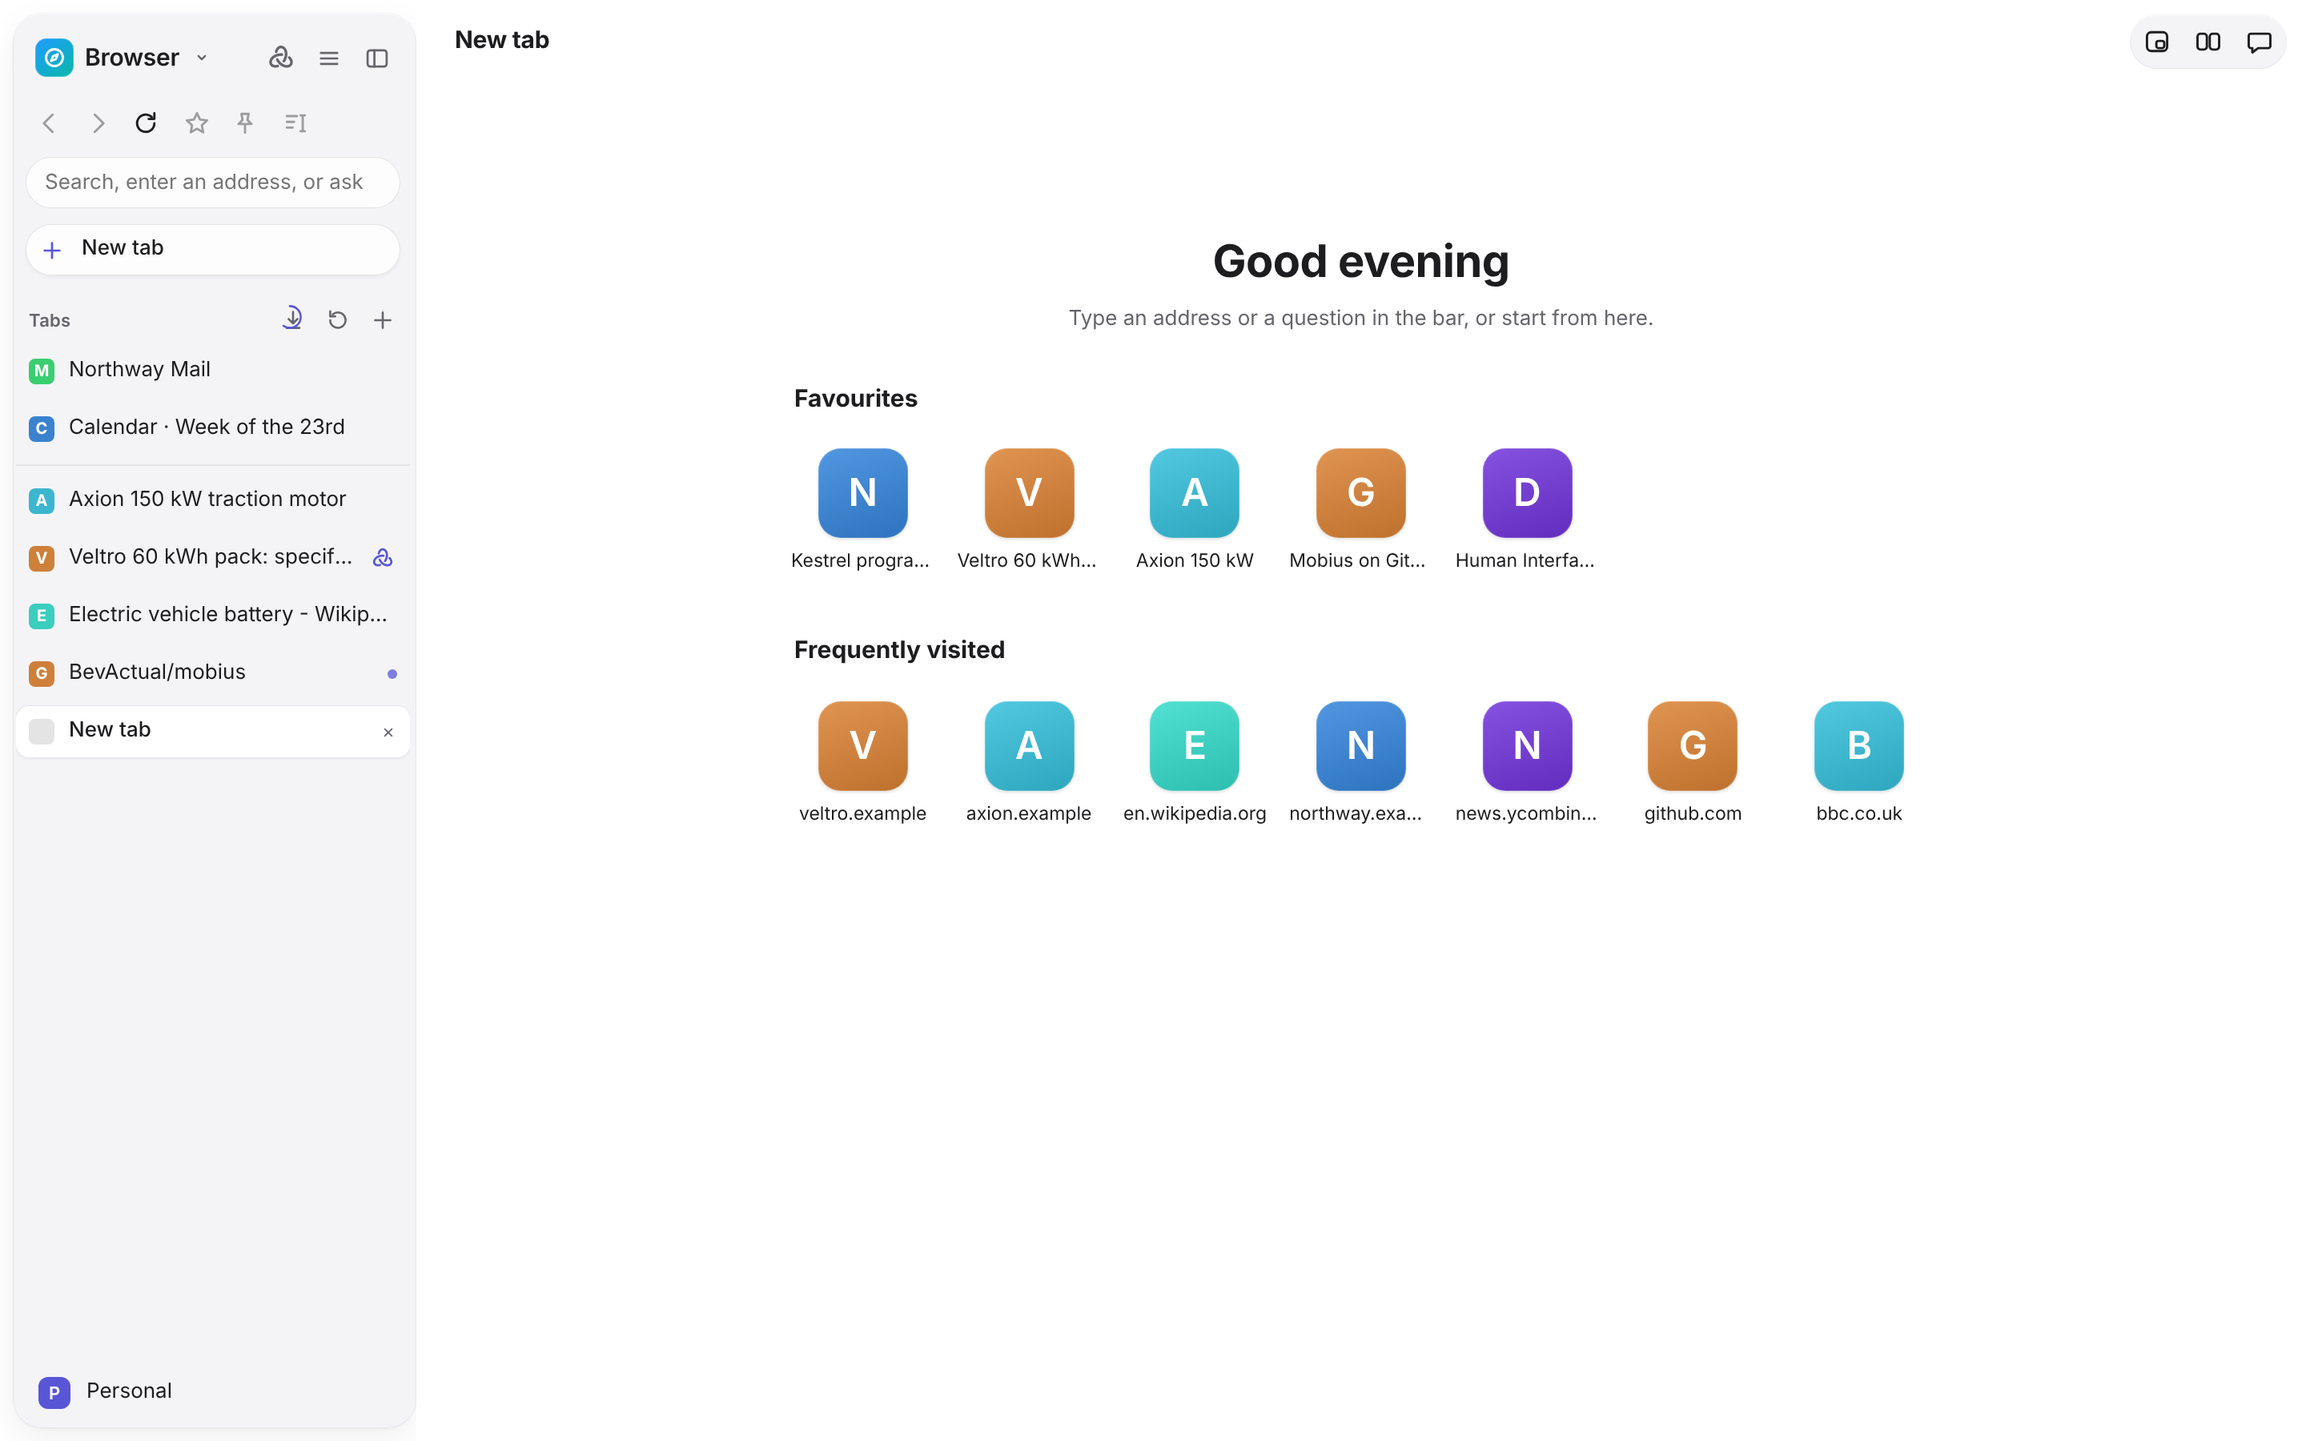
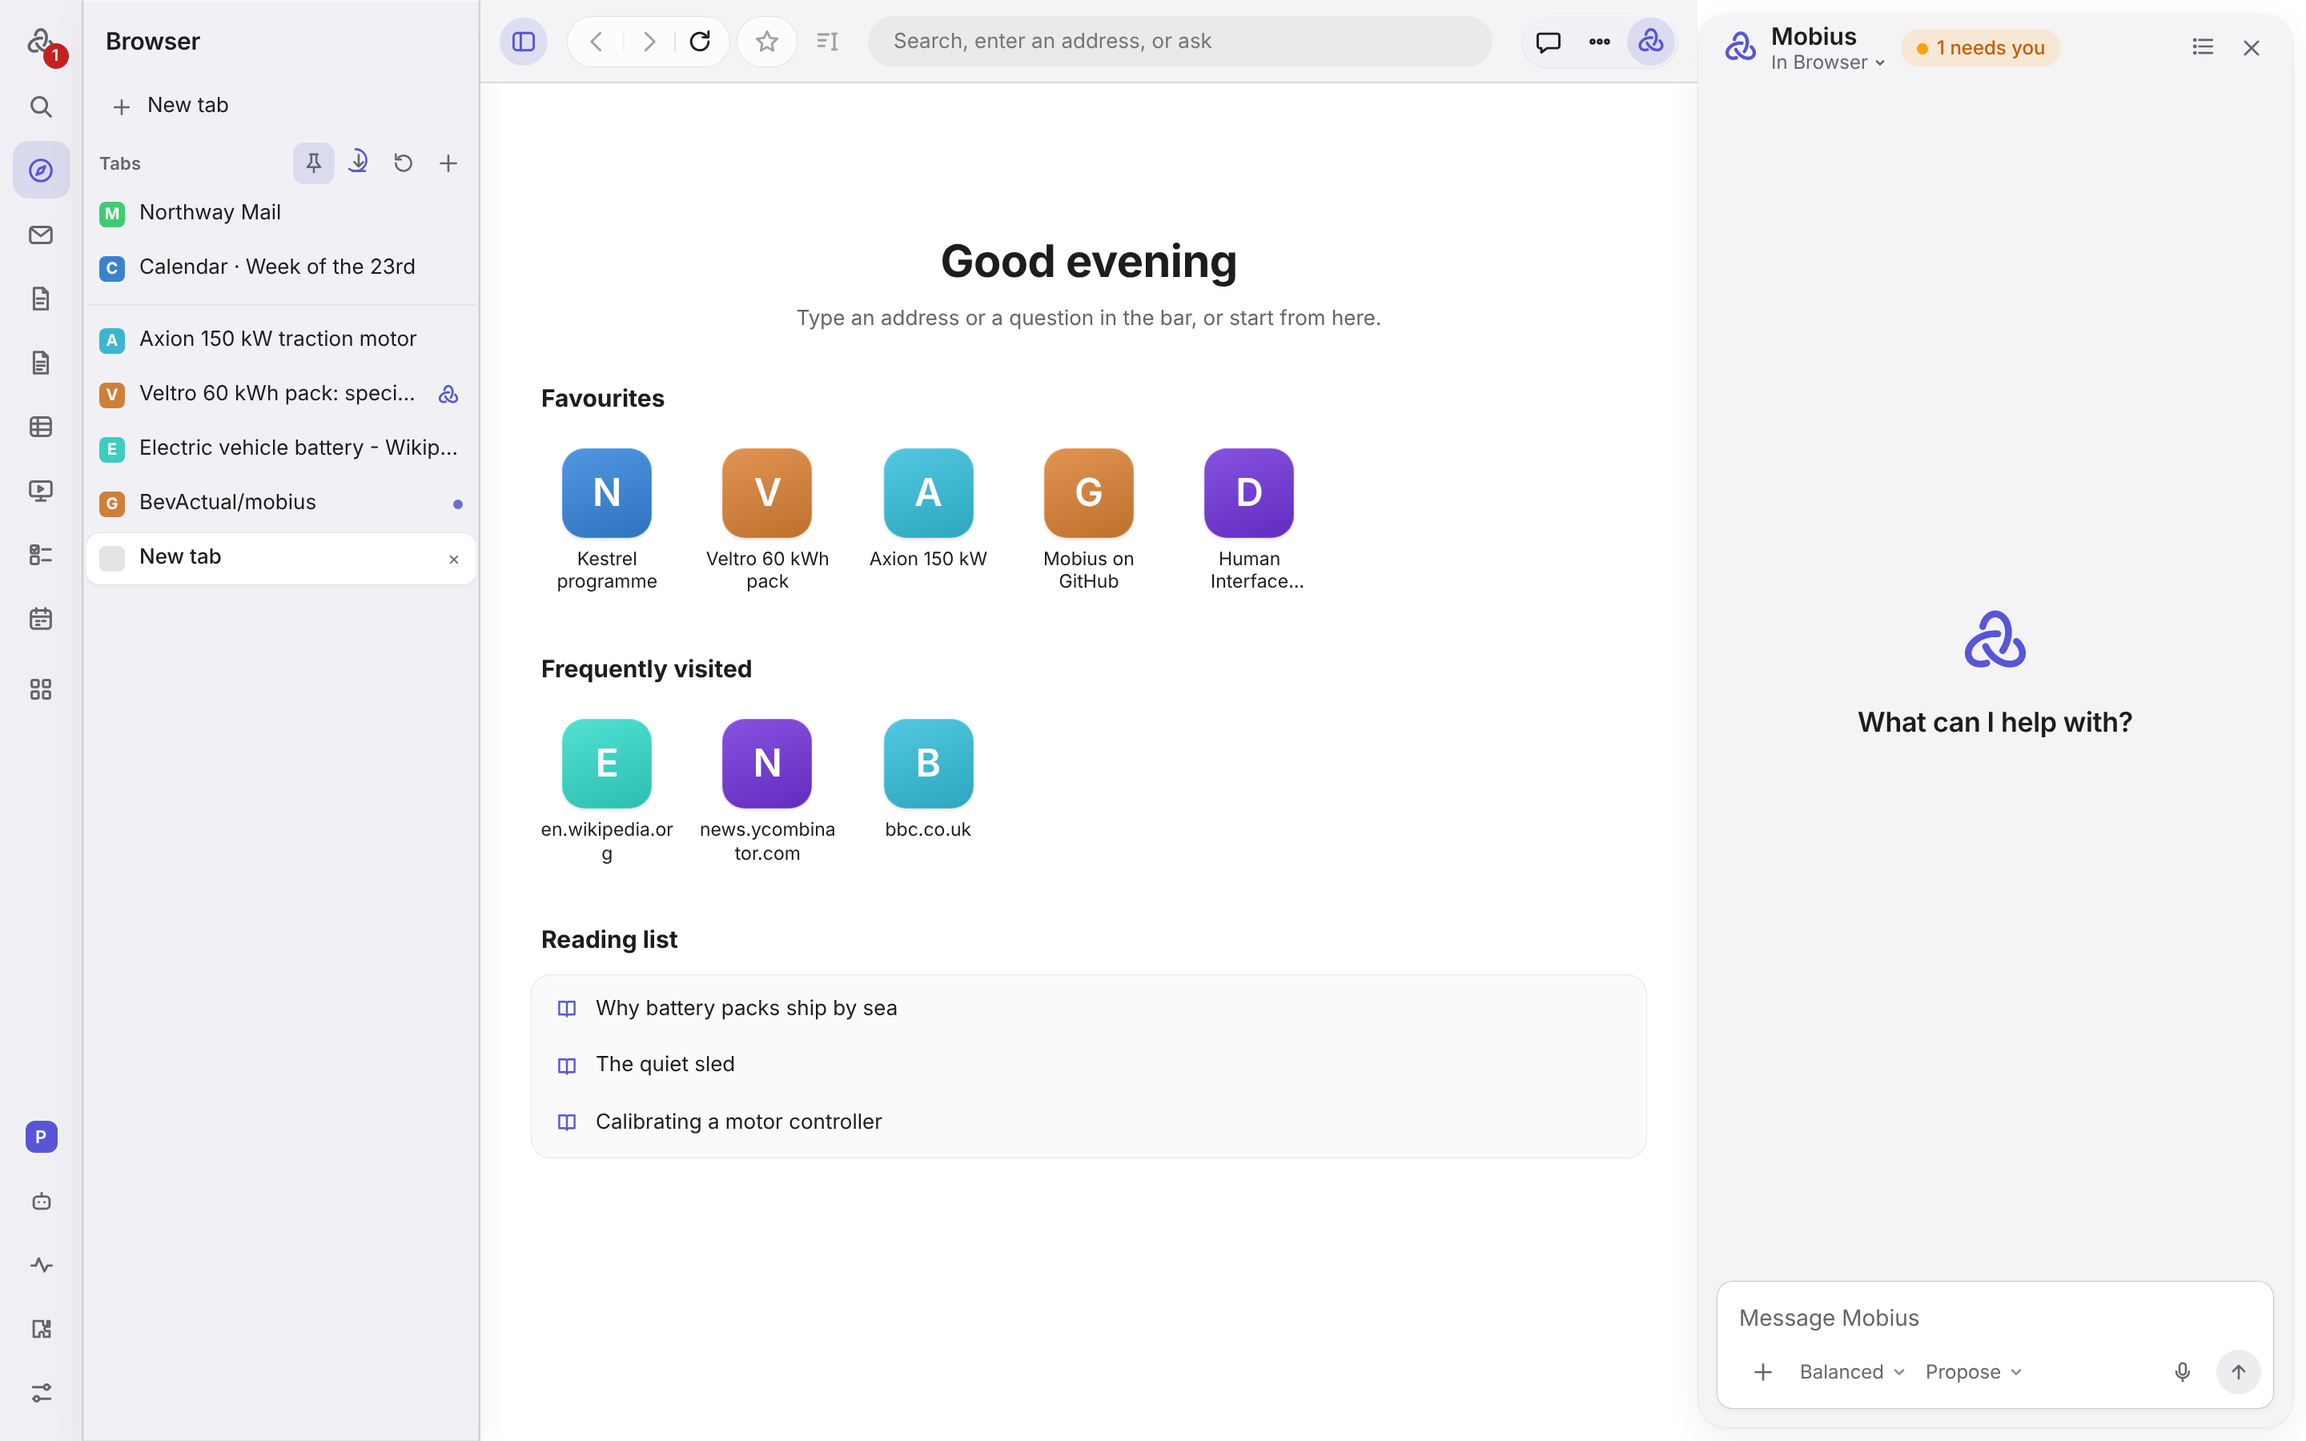
Browser: one pin beside the address, and a start page that doesn't repeat itself (#78)
* Browser: quieter tab rows, suggestions that fit, downloads that stay shut on launch

- A tab Mobius reads or uses shows a small Mobius mark instead of a word chip, and a hand once you took it back, so
  the title keeps its room. The words stay for screen readers.
- The showing tab's hidden pin and duplicate buttons no longer take room, so its title is not cut off by blank space.
- Address suggestions stay inside their popover and end in an ellipsis instead of running past it.
- The downloads popover opens only for a download that starts while you are in Browser, not for the list loading.
- The selected-text button uses a text-cursor glyph in place of the sparkle.
- README/docs screenshot retaken; docs mention the tab marks.

Claude-Session: https://claude.ai/code/session_01VRGwo7JFbuvwaD27M65Dsc

* Browser: keep the showing tab's hidden buttons in place, and cover only the close button's end

display: none took them out of reach of the e2e clicks (tabs-extra.spec pin and duplicate); they now stay at opacity 0
as before, and the row's fade covers only the close button, so the title still keeps its room.

Claude-Session: https://claude.ai/code/session_01VRGwo7JFbuvwaD27M65Dsc

* Browser: open the downloads popover for any new download, not only one still running

A small file can first show up already finished (notifications.spec 'a finished download is announced'), and the
[…]

diff --git a/apps/desktop/src/Browser.tsx b/apps/desktop/src/Browser.tsx
@@ -128,7 +128,7 @@ function useTabDrag(tabs: readonly BrowserTabState[]): TabDrag {
  * A tab's right-click menu, the shared one. It is kept inside the sidebar, since the page is drawn over everything beside
  * it, so it opens from a point that leaves room for it there.
  */
-function TabMenu({ tab, x, y, tabs, onClose }: { tab: BrowserTabState; x: number; y: number; tabs: readonly BrowserTabState[]; onClose: () => void }) {
+function TabMenu({ tab, x, y, tabs, pinnedPages, onPinPage, onClose }: { tab: BrowserTabState; x: number; y: number; tabs: readonly BrowserTabState[]; pinnedPages: ReadonlySet<string>; onPinPage: (tab: BrowserTabState) => void; onClose: () => void }) {
   const side = document.querySelector('.side')?.getBoundingClientRect();
   const left = side ? Math.max(side.left + 4, Math.min(x, side.right - TAB_MENU_W - 4)) : x;
   const others = tabs.filter((t) => t.id !== tab.id && !t.pinned);
@@ -141,6 +141,8 @@ function TabMenu({ tab, x, y, tabs, onClose }: { tab: BrowserTabState; x: number
     { label: 'Reload', run: () => api.reload(tab.id), disabled: !tab.url },
     { action: 'copy', label: 'Copy link', run: () => void navigator.clipboard?.writeText(tab.url).catch(() => {}), disabled: !web, separated: true },
     { label: 'Bookmark…', run: () => { api.activate(tab.id); void window.mobius.bookmarks.toggle(); }, disabled: !web || !tab.active },
+    // Kept with the page's other ways to keep it, rather than as a second pin beside the address.
+    { label: pinnedPages.has(tab.url) ? 'Unpin from the sidebar' : 'Pin to the sidebar', run: () => onPinPage(tab), disabled: !web },
     { label: 'Close tab', run: () => api.close(tab.id), separated: true },
     { label: 'Close tabs below', run: () => below.forEach((t) => api.close(t.id)), disabled: below.length === 0 },
     { label: 'Close other tabs', run: () => others.forEach((t) => api.close(t.id)), disabled: others.length === 0, danger: true },
@@ -154,7 +156,7 @@ const TAB_MENU_W = 210;
  * The tabs, as Safari's and Arc's sidebars keep them: pinned tabs in their own group above the rest, actions only on the
  * row under the pointer, drag to reorder (or across the line to pin), and a right-click menu. Downloads open from a button in its head.
  */
-export function BrowserSidebar({ tabs, pin, onNewTab, downloads }: { tabs: readonly BrowserTabState[]; pin: ReactNode; onNewTab: () => void; downloads: DownloadEntry[] }) {
+export function BrowserSidebar({ tabs, pin, onNewTab, downloads, pinnedPages, onPinPage }: { tabs: readonly BrowserTabState[]; pin: ReactNode; onNewTab: () => void; downloads: DownloadEntry[]; pinnedPages: ReadonlySet<string>; onPinPage: (tab: BrowserTabState) => void }) {
   const [menu, setMenu] = useState<{ tab: BrowserTabState; x: number; y: number } | null>(null);
   const closeMenu = useCallback(() => setMenu(null), []);
   const drag = useTabDrag(tabs);
@@ -190,7 +192,7 @@ export function BrowserSidebar({ tabs, pin, onNewTab, downloads }: { tabs: reado
             </ul>
             {open.length === 0 && pinned.length > 0 && <p className="tabs-empty">No other tabs. Press Ctrl+T for a new one.</p>}
           </div>
-          {menu && menuTab && <TabMenu tab={menuTab} x={menu.x} y={menu.y} tabs={tabs} onClose={closeMenu} />}
+          {menu && menuTab && <TabMenu tab={menuTab} x={menu.x} y={menu.y} tabs={tabs} pinnedPages={pinnedPages} onPinPage={onPinPage} onClose={closeMenu} />}
         </aside>
   );
 }
@@ -198,8 +200,6 @@ export function BrowserSidebar({ tabs, pin, onNewTab, downloads }: { tabs: reado
 export interface BrowserChromeProps {
   active: BrowserTabState | undefined;
   saved: boolean;
-  pagePinned: boolean;
-  onTogglePagePin: () => void;
   selectionMenu: boolean;
   setSelectionMenu: (update: boolean | ((open: boolean) => boolean)) => void;
   /** A picture of the page covers it, so the selection menu can sit over it. */
@@ -219,8 +219,8 @@ export interface BrowserChromeProps {
   onCloseFind: () => void;
 }
 
-/** Back, forward, reload, bookmark, pin, the selection menu and the address bar, with Find under them. */
-export function BrowserChrome({ active, saved, pagePinned, onTogglePagePin, selectionMenu, setSelectionMenu, selectionReady, onSelection, clipTo, clipPages, onClipTo, address, draft, setDraft, notice, setNotice, onSubmit, findOpen, finding, onCloseFind }: BrowserChromeProps) {
+/** Back, forward, reload, bookmark, the selection menu and the address bar, with Find under them. */
+export function BrowserChrome({ active, saved, selectionMenu, setSelectionMenu, selectionReady, onSelection, clipTo, clipPages, onClipTo, address, draft, setDraft, notice, setNotice, onSubmit, findOpen, finding, onCloseFind }: BrowserChromeProps) {
   return (
   <div className="strip-middle" role="group" aria-label="Browser">
         <div className="cap-group">
@@ -237,9 +237,6 @@ export function BrowserChrome({ active, saved, pagePinned, onTogglePagePin, sele
         <div className="cap-group" role="group" aria-label="This page">
         <button type="button" className="strip-btn" aria-pressed={saved} aria-label={saved ? 'Remove bookmark' : 'Bookmark this page'} title={saved ? 'Remove bookmark' : 'Bookmark this page'} disabled={!active || !/^https?:/.test(active.url)} onClick={() => void window.mobius.bookmarks.toggle()}>
           <svg viewBox="0 0 20 20" aria-hidden="true"><path d="M10 3l2.1 4.4 4.9.6-3.6 3.4.9 4.8L10 13.8 5.7 16.2l.9-4.8L3 8l4.9-.6z" /></svg>
-        </button>
-        <button type="button" className="strip-btn" data-page-pin aria-pressed={pagePinned} aria-label={pagePinned ? 'Unpin this page from the sidebar' : 'Pin this page to the sidebar'} title={pagePinned ? 'Unpin from the sidebar' : 'Pin to the sidebar'} disabled={!active || !/^https?:/.test(active.url)} onClick={onTogglePagePin}>
-          <svg viewBox="0 0 20 20" aria-hidden="true"><path d="M7.5 3.5h5l-.8 4.2 2.8 2.8H5.5l2.8-2.8zM10 10.5v6" /></svg>
         </button>
         </div>
         <div className="selection-menu-wrap">

diff --git a/apps/desktop/src/StartPage.tsx b/apps/desktop/src/StartPage.tsx
@@ -41,14 +41,17 @@ export function StartPage({ onOpen, onRead }: { onOpen: (url: string) => void; o
   useEffect(() => {
     let live = true;
     void window.mobius.bookmarks.get('').then((b) => { if (live) setFavourites(b.slice(0, 8)); }).catch(() => {});
-    void window.mobius.history.get('').then((h) => { if (live) setFrequent(h.enabled ? frequentSites(h.entries.slice(0, 300)) : []); }).catch(() => {});
+    void window.mobius.history.get('').then((h) => { if (live) setFrequent(h.enabled ? frequentSites(h.entries.slice(0, 300), 12) : []); }).catch(() => {});
     void window.mobius.reading?.list().then((lists) => {
       if (!live || isNotesFailure(lists)) return;
       setReading(lists.filter((nb) => nb.name !== 'Archive').flatMap((nb) => nb.pages).sort((a, b) => b.modified - a.modified).slice(0, 4).map((p) => ({ path: p.path, title: p.title })));
     }).catch(() => {});
     return () => { live = false; };
   }, []);
-  const empty = favourites.length === 0 && frequent.length === 0 && reading.length === 0;
+  // A site already in Favourites is not shown again under Frequently visited.
+  const favouriteSites = new Set(favourites.map((b) => host(b.url)));
+  const others = frequent.filter((f) => !favouriteSites.has(f.site)).slice(0, 8);
+  const empty = favourites.length === 0 && others.length === 0 && reading.length === 0;
   return (
     <section className="start-page" aria-label="New tab">
       <div className="start-inner">
@@ -62,10 +65,10 @@ export function StartPage({ onOpen, onRead }: { onOpen: (url: string) => void; o
             <div className="start-grid">{favourites.map((b) => <Tile key={b.url} url={b.url} title={b.title} onOpen={onOpen} />)}</div>
           </section>
         )}
-        {frequent.length > 0 && (
+        {others.length > 0 && (
           <section aria-label="Frequently visited">
             <h2 className="start-heading">Frequently visited</h2>
-            <div className="start-grid">{frequent.map((f) => <Tile key={f.site} url={f.url} title={f.site} onOpen={onOpen} />)}</div>
+            <div className="start-grid">{others.map((f) => <Tile key={f.site} url={f.url} title={f.site} onOpen={onOpen} />)}</div>
           </section>
         )}
         {reading.length > 0 && (

diff --git a/apps/desktop/src/App.tsx b/apps/desktop/src/App.tsx
@@ -975,7 +975,7 @@ export function App() {
             ) : inTasks ? (
               <TasksSidebar tasks={tasks} pin={pinNode} changed={turnMarks.lists} pinned={pinnedLists} onPin={(name) => togglePin({ kind: 'list', id: name, title: name })} starts={startsFor('tasks')} onStart={startWithMobius} />
             ) : (
-          <BrowserSidebar tabs={browser.tabs} pin={pinNode} onNewTab={newTab} downloads={downloads} />
+          <BrowserSidebar tabs={browser.tabs} pin={pinNode} onNewTab={newTab} downloads={downloads} pinnedPages={pinnedPages} onPinPage={(t) => togglePin({ kind: 'page', id: t.url, title: t.title || t.url })} />
             )}
             <CommentsGroup threads={openComments} onOpen={(t) => { if (t.doc === commentDoc) setCommentFocus(t.id); }} />
           </>
@@ -993,6 +993,8 @@ export function App() {
   const favourites = appearance.value.favourites ?? [];
   const pinnedNotes = useMemo(() => new Set(favourites.filter((f) => f.kind === 'note').map((f) => f.id)), [favourites]);
   const pagePinned = active !== undefined && favourites.some((f) => f.kind === 'page' && f.id === active.url);
+  // Browser: the pages pinned to the sidebar, for the tab menu's Pin to the sidebar.
+  const pinnedPages = useMemo(() => new Set(favourites.filter((f) => f.kind === 'page').map((f) => f.id)), [favourites]);
   const pinnedLists = useMemo(() => new Set(favourites.filter((f) => f.kind === 'list').map((f) => f.id)), [favourites]);
   const togglePin = (fav: Favourite) => {
     const has = favourites.some((f) => f.kind === fav.kind && f.id === fav.id);
@@ -1497,8 +1499,6 @@ export function App() {
     <BrowserChrome
       active={active}
       saved={saved}
-      pagePinned={pagePinned}
-      onTogglePagePin={() => active && togglePin({ kind: 'page', id: active.url, title: active.title || active.url })}
       selectionMenu={selectionMenu}
       setSelectionMenu={setSelectionMenu}
       selectionReady={cover !== null}

diff --git a/apps/desktop/src/browser.css b/apps/desktop/src/browser.css
@@ -95,7 +95,9 @@
 .start-page .start-tile:hover { background: color-mix(in srgb, var(--ink) 5%, transparent); }
 .start-page .start-tile:focus-visible { outline: 2px solid var(--accent); outline-offset: 0; }
 .start-page .start-tile-mark { width: 56px; height: 56px; border-radius: 14px; font-size: 24px; font-weight: 600; color: #fff; background: linear-gradient(160deg, hsl(var(--hue, 220) 70% 60%), hsl(var(--hue, 220) 62% 46%)); box-shadow: 0 1px 2px rgba(0, 0, 0, 0.12), inset 0 0 0 0.5px rgba(255, 255, 255, 0.18); }
-.start-page .start-tile-title { font-size: 11.5px; color: var(--ink); }
+/* Names take two lines before they are cut, as on Safari's start page. */
+.start-page .start-tile { justify-content: flex-start; }
+.start-page .start-tile-title { display: -webkit-box; -webkit-box-orient: vertical; -webkit-line-clamp: 2; line-clamp: 2; white-space: normal; text-align: center; line-height: 1.25; min-height: 2.5em; font-size: 11.5px; color: var(--ink); overflow-wrap: anywhere; }
 .start-page .start-reading { gap: 0; padding: 4px; border-radius: 12px; background: var(--panel); box-shadow: 0 0 0 0.5px var(--line); }
 .start-page .start-reading button { display: flex; align-items: center; gap: 10px; padding: 8px 10px; }
 .start-page .start-reading button:hover { background: color-mix(in srgb, var(--ink) 5%, transparent); }

diff --git a/docs/apps/browse-and-find.md b/docs/apps/browse-and-find.md
@@ -9,9 +9,10 @@ A full web browser, with Mobius able to read and work on pages for you.
 - **Tabs** live in the sidebar, as in Safari and Arc. Pinned tabs sit in their own group above the rest; drag a tab to
   reorder it or across the line to pin it. A small Mobius mark on a tab means Mobius is reading or using it; a hand means
   you took it back.
-- **A new tab** opens Mobius's start page: your favourites, the sites you visit most, and your reading list. It is drawn
+- **A new tab** opens Mobius's start page: your favourites, other sites you visit most, and your reading list. It is drawn
   by Mobius, so none of it is shown to a web page.
-- **Bookmarks** with the star beside the address, **Find** (Ctrl+F), downloads and history.
+- **Bookmarks** with the star beside the address, **Find** (Ctrl+F), downloads and history. To pin a page to the
+  sidebar, right-click its tab and choose **Pin to the sidebar**.
 - **Mobius on the page.** Ask about the page, or select text and act on it. Opening a site the agent hasn't been allowed
   asks first, and clicking or typing on a page asks every time. When a page needs a sign-in, you sign in yourself.
 - Pages are shown by the system web view (WebView2) in the installer, or by Chromium (CEF) in a build from source that includes it.
